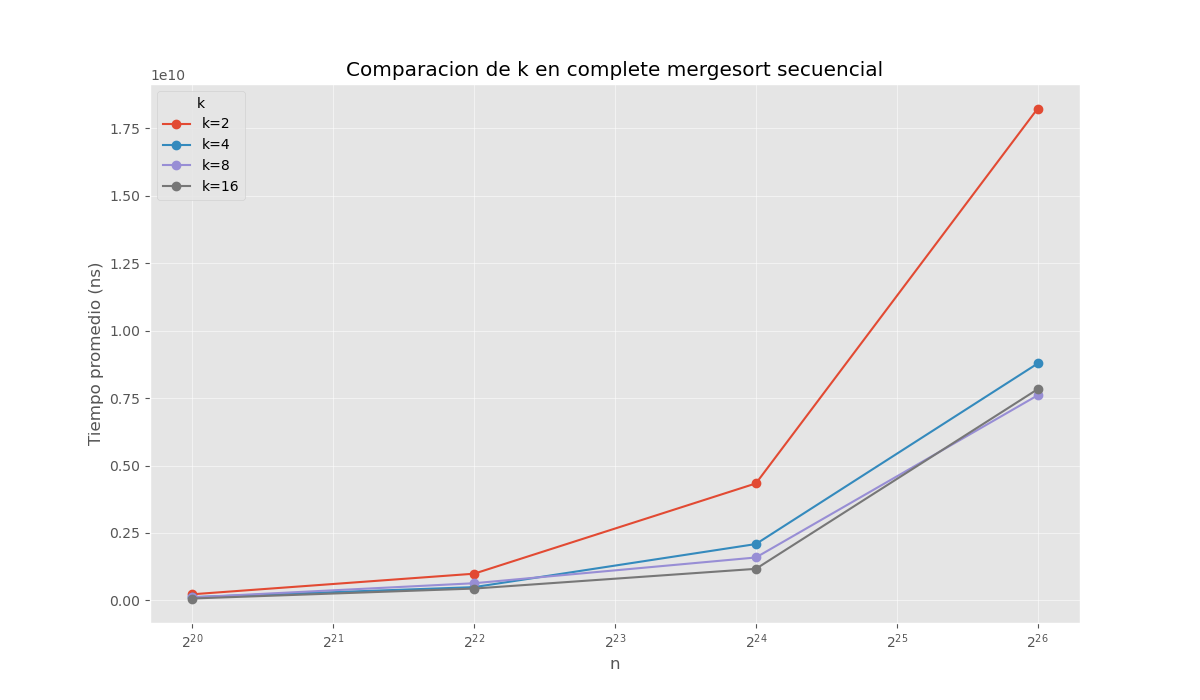
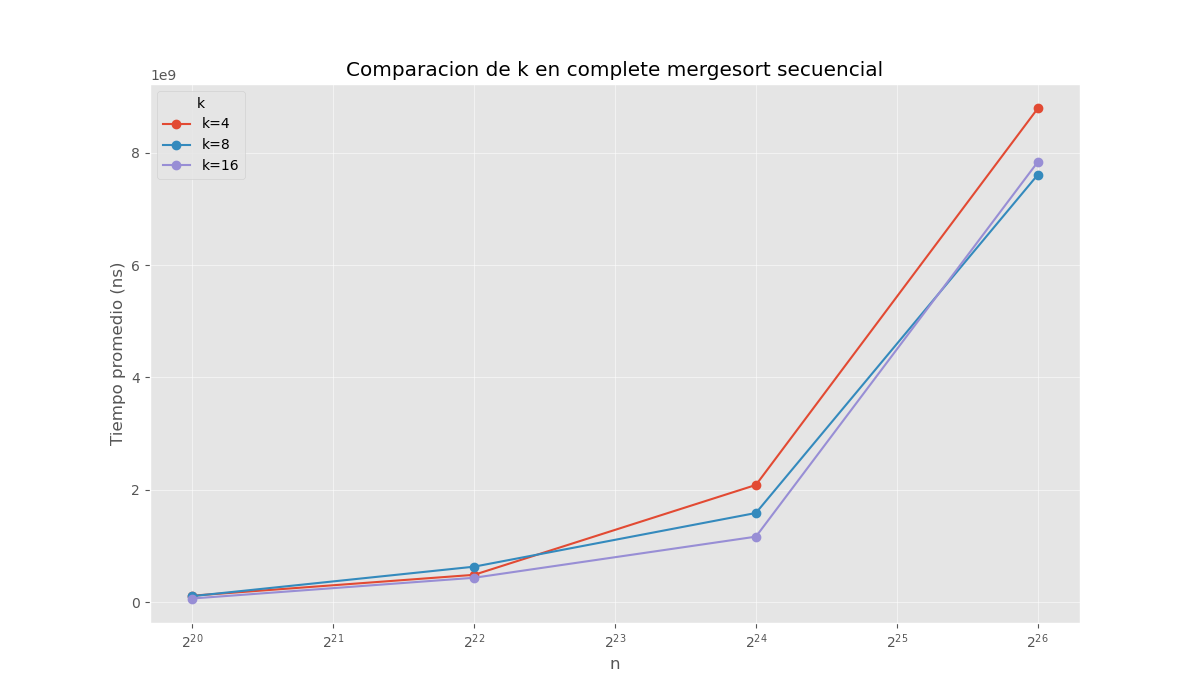
feat: se agregan archivos para hacer profilling y resultados de experimentacion

diff --git a/profiling.cpp b/profiling.cpp
@@ -1,0 +1,32 @@
+#include <iostream>
+#include <vector>
+#include <algorithm>
+#include <omp.h>
+#include "complete_p_merge_sort.cpp" 
+
+int main(int argc, char* argv[]) {
+    if (argc < 4) {
+        std::cerr << "Uso: " << argv[0] << " <n_potencia> <k> <hilos>" << std::endl;
+        return 1;
+    }
+
+    int n_pow = std::atoi(argv[1]);
+    long long n = 1LL << n_pow; 
+    int k = std::atoi(argv[2]);
+    int hilos = std::atoi(argv[3]);
+
+    // omp_set_num_threads(hilos);
+    std::vector<int> data(n);
+    
+    std::srand(42); 
+    std::generate(data.begin(), data.end(), std::rand);
+
+    parallelCompleteMergeSort(data, k);
+
+    if (!std::is_sorted(data.begin(), data.end())) {
+        std::cerr << "Error: El arreglo no quedó ordenado." << std::endl;
+        return 1;
+    }
+
+    return 0;
+}
